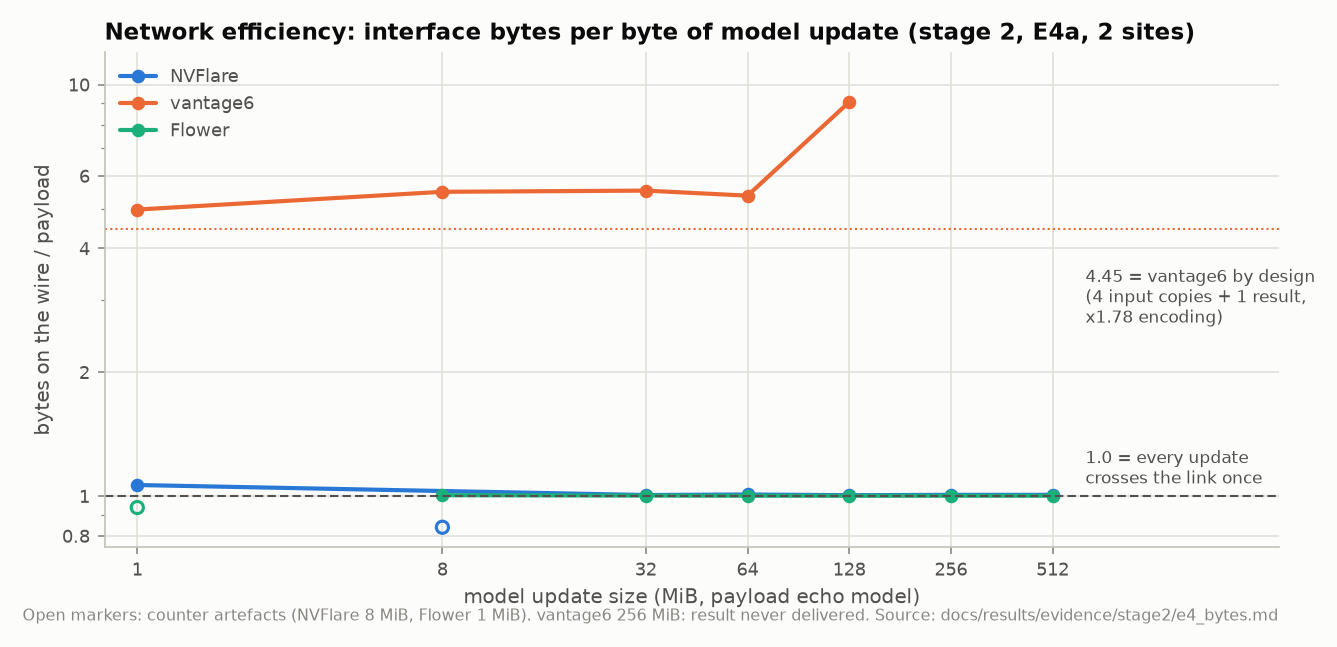
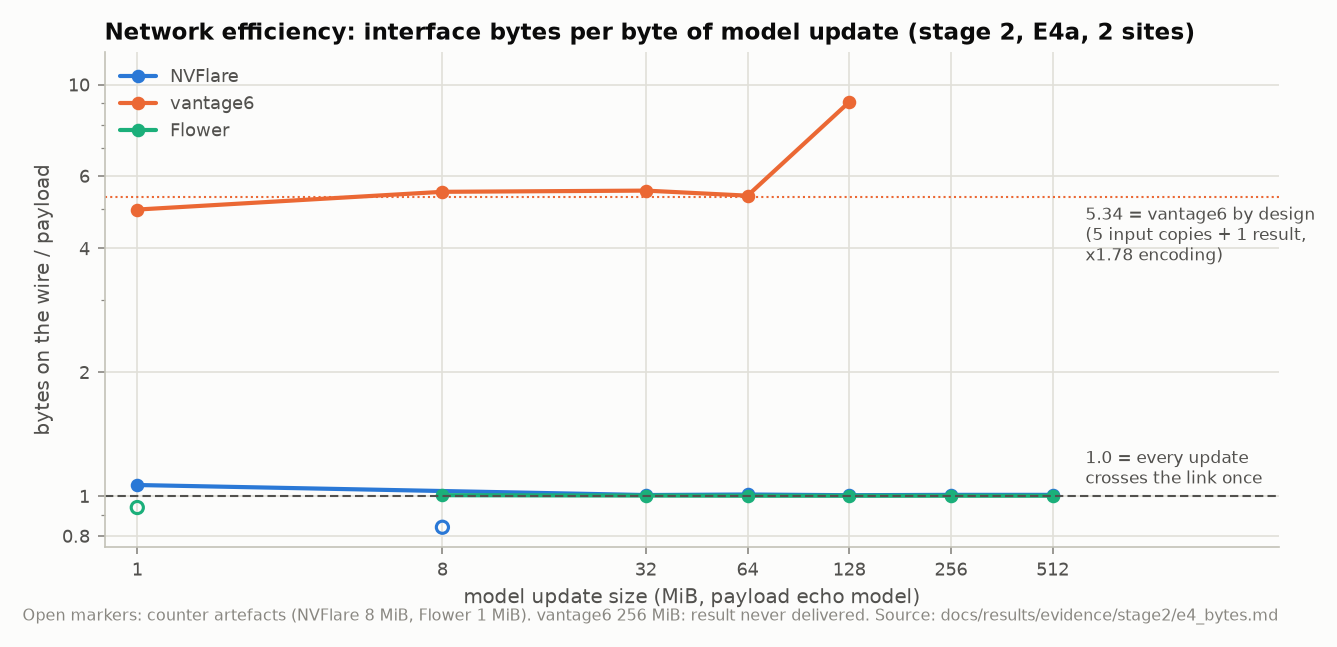
docs: vantage6 receives five input copies per run (cost, results)

Changed region(s): [[0.7973, 0.3091, 0.9813, 0.4946]]

diff --git a/scripts/docs/plots_cost.py b/scripts/docs/plots_cost.py
@@ -61,8 +61,8 @@ def fig_bytes_on_wire() -> None:
                        edgecolors=col, linewidths=1.5, zorder=3)
     ax.axhline(1.0, color=fs.INK_2, lw=1, ls=(0, (4, 2)))
     ax.text(640, 1.04, "1.0 = every update\ncrosses the link once", fontsize=8, color=fs.INK_2, va="bottom")
-    ax.axhline(4.45, color=fs.FRAMEWORK["vantage6"], lw=1, ls=(0, (1, 1.5)))
-    ax.text(640, 3.6, "4.45 = vantage6 by design\n(4 input copies + 1 result,\nx1.78 encoding)", fontsize=8,
+    ax.axhline(5.34, color=fs.FRAMEWORK["vantage6"], lw=1, ls=(0, (1, 1.5)))
+    ax.text(640, 5.1, "5.34 = vantage6 by design\n(5 input copies + 1 result,\nx1.78 encoding)", fontsize=8,
             color=fs.INK_2, va="top")
     ax.set_xscale("log", base=2)
     ax.set_xticks([1, 8, 32, 64, 128, 256, 512], ["1", "8", "32", "64", "128", "256", "512"])

diff --git a/docs/cost-and-efficiency.md b/docs/cost-and-efficiency.md
@@ -16,7 +16,7 @@ What it costs to build the framework-agnostic hub, to bring it to hospitals that
 | Cost per MiB of model, b | 0.0212 s | 1.49 s (1–64 MiB), superlinear above | 0.0612 s | | [cost_model.md](results/evidence/stage2/cost_model.md) |
 | Overhead per site and round with training (E3): 0.2 / 6.4 / 42.6 MiB models | 1.6 / 1.9 / 2.7 s | 7.2 / 14.1 / 42.0 s | 5.6 / 6.3 / 10.9 s | | [tables.md](results/evidence/stage2/tables.md) |
 | Bytes on the wire ÷ payload (E4a) | 1.005–1.064 | 4.97–5.53 (≤ 64 MiB), 9.08 (128 MiB) | 1.002–1.005 | | [e4_bytes.md](results/evidence/stage2/e4_bytes.md) |
-| Bandwidth efficiency at 20 Mbit/s (E4b) | 0.94 | 0.16 (0.72 against its own transfer volume) | 0.89 | | [cost_model.md](results/evidence/stage2/cost_model.md) |
+| Bandwidth efficiency at 20 Mbit/s (E4b) | 0.94 | 0.16 (0.87 against its own transfer volume, 21.36·P in both directions) | 0.89 | | [cost_model.md](results/evidence/stage2/cost_model.md) |
 | Largest model update carried | 512 MiB (15.5 s per round) | 128 MiB (468.2 s); 256 MiB never delivered | 512 MiB (45.8 s) | above that: testbed disk limit | [tables.md](results/evidence/stage2/tables.md) |
 | Central memory at that size (peak RSS) | relay job 3,779 MiB (7.4×) | server 2,349 MiB (18×), adapter 1,925 MiB (15×) | relay ServerApp 3,647 MiB (7.1×) | orchestrator about 8× the update; hub core 41–47 MiB | [central-e4a-memory.md](results/evidence/stage2/central-e4a-memory.md) |
 | Hospital VM memory at that size (two sites) | 5.0 GiB | 5.2 GiB | 7.5 GiB | | [nvflare](results/evidence/stage2/nvflare/e4a-memory.md), [vantage6](results/evidence/stage2/vantage6/e4a-vm-memory.md), [flower](results/evidence/stage2/flower/e4a-flower-vm-memory.md) |
@@ -111,7 +111,7 @@ Per framework, the fan-out time of a round (dispatch to the last result) is fitt
 | Flower | 1–512 MiB | 5.48 | 0.0612 | 0.956 (quadratic 0.997) | −10 % / −4 to −1 % / −1 % |
 | vantage6 | 1–64 MiB | 4.13 | 1.494 | 0.959 (1–128 MiB: 0.581 linear, 0.981 quadratic) | −38 to −31 % / −4 to −3 % / +10 % |
 
-Source: [cost_model.md](results/evidence/stage2/cost_model.md). With link transfer added (V·P/rate, V = the bytes a framework moves per link and round in units of P: 4 for NVFlare and Flower, 17.8 for vantage6), the model predicts all twelve framework-profile pairs of the bandwidth test within ±13 % (same file).
+Source: [cost_model.md](results/evidence/stage2/cost_model.md). With link transfer added (V·P/rate, V = the bytes a framework moves per link and round in units of P: 4 for NVFlare and Flower, 17.8 for vantage6, which is its downstream volume alone, §5.1), the model predicts all twelve framework-profile pairs of the bandwidth test within ±13 % (same file). Counting vantage6's upstream results too (21.36·P), its predictions are −5 %, +17 % and +2 % at 1 Gbit/s, 100 and 20 Mbit/s.
 
 **Fixed floors per round and their causes:**
 
@@ -128,7 +128,7 @@ Interface byte counters of each framework's hospital VM during the payload sweep
 ![Bytes on the wire per byte of model update](results/figures/cost_bytes_on_wire.png)
 
 - **NVFlare 1.005–1.064 and Flower 1.002–1.005:** each update crosses the link once; the small excess is protocol framing and, at 1 MiB, background traffic. Two rows read below 1 (NVFlare 8 MiB 0.840, Flower 1 MiB 0.938): counter artefacts, since every round of those runs finished with weights hash-equal to the simulation.
-- **vantage6 4.97–5.53 up to 64 MiB, 9.08 at 128 MiB:** by design, a 4.15.2 node receives the run input four times per site and round (run list, two PATCH responses, an extra `GET run/<id>`), and the input is the weights base64-encoded inside JSON that is base64-encoded again (1.78× the update). Per VM link and round with two sites that is 2 × (4 + 1) × 1.78 = 17.8 × P, i.e. 4.45× the payload; the excess above that grows with load: at 64 MiB a node downloaded 8.8× the update per site and round instead of 7.1×, at 128 MiB about 16×, because it retried requests after the busy server dropped the connection.
+- **vantage6 4.97–5.53 up to 64 MiB, 9.08 at 128 MiB:** by design, a 4.15.2 node receives the run input five times per site and round (the run listing, the responses to its three PATCH requests for start time, status and result, and an extra `GET run/<id>`), and the input is the weights base64-encoded inside JSON that is base64-encoded again (1.78× the update). Per site and round that is 8.9× the update down and 1.78× up, a design ratio of (8.9 + 1.78) ÷ 2 = 5.34, which the measurements at 8–64 MiB match (8.8–9.1× down). At 128 MiB a node downloaded about 16× the update per site and round, because it retried requests after the busy server dropped the connection ([vantage6 guide](frameworks/vantage6.md) §5.4).
 
 Source: [e4_bytes.md](results/evidence/stage2/e4_bytes.md), [vantage6 guide](frameworks/vantage6.md) §5.
 
@@ -138,14 +138,14 @@ Source: [e4_bytes.md](results/evidence/stage2/e4_bytes.md), [vantage6 guide](fra
 
 ![Measured fan-out against the bandwidth bound](results/figures/e4b_measured_vs_bound.png)
 
-| Profile | Lower bound (s) | NVFlare (s), efficiency | Flower (s), efficiency | vantage6 (s), efficiency | vantage6 against its own volume 17.8·P |
+| Profile | Lower bound (s) | NVFlare (s), efficiency | Flower (s), efficiency | vantage6 (s), efficiency | vantage6 against its own volume 21.36·P |
 |---|---|---|---|---|---|
 | none | – | 3.3 | 7.5 | 81.8 | – |
-| 1 Gbit/s, 5 ms | 1.5 | 4.3, 0.35 | 8.9, 0.17 | 83.3, 0.02 | 6.7 s bound, 0.08 |
-| 100 Mbit/s, 20 ms | 15.1 | 17.0, 0.89 | 22.7, 0.67 | 129.5, 0.12 | 67.2 s bound, 0.52 |
-| 20 Mbit/s, 40 ms | 75.5 | 80.3, 0.94 | 85.1, 0.89 | 463.8, 0.16 | 336.0 s bound, 0.72 |
+| 1 Gbit/s, 5 ms | 1.5 | 4.3, 0.35 | 8.9, 0.17 | 83.3, 0.02 | 8.1 s bound, 0.10 |
+| 100 Mbit/s, 20 ms | 15.1 | 17.0, 0.89 | 22.7, 0.67 | 129.5, 0.12 | 80.6 s bound, 0.62 |
+| 20 Mbit/s, 40 ms | 75.5 | 80.3, 0.94 | 85.1, 0.89 | 463.8, 0.16 | 403.2 s bound, 0.87 |
 
-Source: [cost_model.md](results/evidence/stage2/cost_model.md) (E4b table), [tables.md](results/evidence/stage2/tables.md). On slow links NVFlare and Flower come close to the wire limit; on fast links their fixed per-round cost dominates. Under realistic hospital bandwidth vantage6 sets the round time of a mixed federation (464 s against 80–85 s at 20 Mbit/s).
+Source: [cost_model.md](results/evidence/stage2/cost_model.md) (E4b table), [tables.md](results/evidence/stage2/tables.md). vantage6's volume counts both directions like the bound: 2 sites × (5 input copies + 1 result) × 1.78 = 21.36·P; its downstream direction alone (17.8·P, the V of cost_model.md) gives 0.72 at 20 Mbit/s. On slow links NVFlare and Flower come close to the wire limit; on fast links their fixed per-round cost dominates. Under realistic hospital bandwidth vantage6 sets the round time of a mixed federation (464 s against 80–85 s at 20 Mbit/s).
 
 ## 6. Memory and disk
 

diff --git a/docs/limitations-and-future-work.md b/docs/limitations-and-future-work.md
@@ -32,7 +32,7 @@ Each finding is described with its cause in the framework guide's §6, and draft
 **vantage6 4.15.2** ([guide](frameworks/vantage6.md#6-limits-known-issues-and-knobs)):
 
 1. A node drops a finished result when its websocket is down, and trains again after reconnecting.
-2. A node receives each run's full input four times per site and round (the run listing, the responses to its two PATCH requests, an extra `GET run/<id>`), and that input is base64-encoded twice, so the network carries 5–9× the payload.
+2. A node receives each run's full input five times per site and round (the run listing, the responses to its three PATCH requests for start time, status and result, and an extra `GET run/<id>`), and that input is base64-encoded twice, so the network carries 5–9× the payload.
 3. The server rewrites the whole run row (including its input) for every algorithm log line; with SQLite this blocks the single worker for minutes with large models.
 4. Task listings load every stored input and result; deleting a task with subtasks orphans their runs.
 5. Nodes never delete their task folders.
@@ -54,6 +54,7 @@ Each finding is described with its cause in the framework guide's §6, and draft
 | The vantage6 adapter supports only unencrypted collaborations (it calls `setup_encryption(None)`) | needs an adapter change |
 | The figure `e4a_peak_rss_vs_payload.png` labels its axis MB; the stage-2 report at its tag writes GB for values in MiB / 1000 | the documentation uses MiB and GiB; the values are MiB |
 | The generated E3 resource table ([tables.md](results/evidence/stage2/tables.md)) lists vantage6's "largest process" as one container; it is the sum of both sites' training containers (2.1 GiB) | stated correctly in the documentation |
+| [cost_model.md](results/evidence/stage2/cost_model.md) derives vantage6's E4b volume V = 17.8 from four input copies; the vantage6 4.15.2 node downloads five (the stage-2 analysis missed the response to the start-time PATCH), so 17.8·P is its downstream volume alone and both directions are 21.36·P | the documentation uses the five copies ([vantage6 guide](frameworks/vantage6.md) §5.4); the generated evidence is kept as produced |
 | Docstrings and comments in the code and scripts cite the documents of the build: `PLAN.md`, `EXPERIMENTS.md`, `PROJECT_PLAN.md`, `REPORT_TEMPLATE.md`, `COLLABORATION.md`, `PROTOCOL.md` and `docs/DECISIONS.md` | the planning documents are on branch `archive/agentic-build`; `PROTOCOL.md` is now [docs/protocol.md](protocol.md) and `docs/DECISIONS.md` is [docs/design/decisions.md](design/decisions.md); the code was not changed in the restructure |
 
 ## Future work

diff --git a/docs/results/stage2.md b/docs/results/stage2.md
@@ -190,7 +190,7 @@ Source: [tables.md](evidence/stage2/tables.md). 1024 MiB (two sites) and 256 MiB
 
 ![E4b measured fan-out against the bound](figures/e4b_measured_vs_bound.png)
 
-NVFlare and Flower move each update once and reach 94 % and 89 % of the bandwidth bound at 20 Mbit/s. vantage6 moves 17.8× the payload per link and round by design (four input copies down and one result up per site, base64 twice); against that volume it reaches 0.72, against the 4·P bound 0.16, and it sets the round time ([cost_model.md](evidence/stage2/cost_model.md)).
+NVFlare and Flower move each update once and reach 94 % and 89 % of the bandwidth bound at 20 Mbit/s. vantage6 moves 21.36× the payload per link and round by design (five input copies down and one result up per site, base64 twice); against that volume it reaches 0.87, against the 4·P bound 0.16, and it sets the round time ([cost_model.md](evidence/stage2/cost_model.md), [vantage6 guide](../frameworks/vantage6.md) §5.4).
 
 ### E3: round time and model size
 
